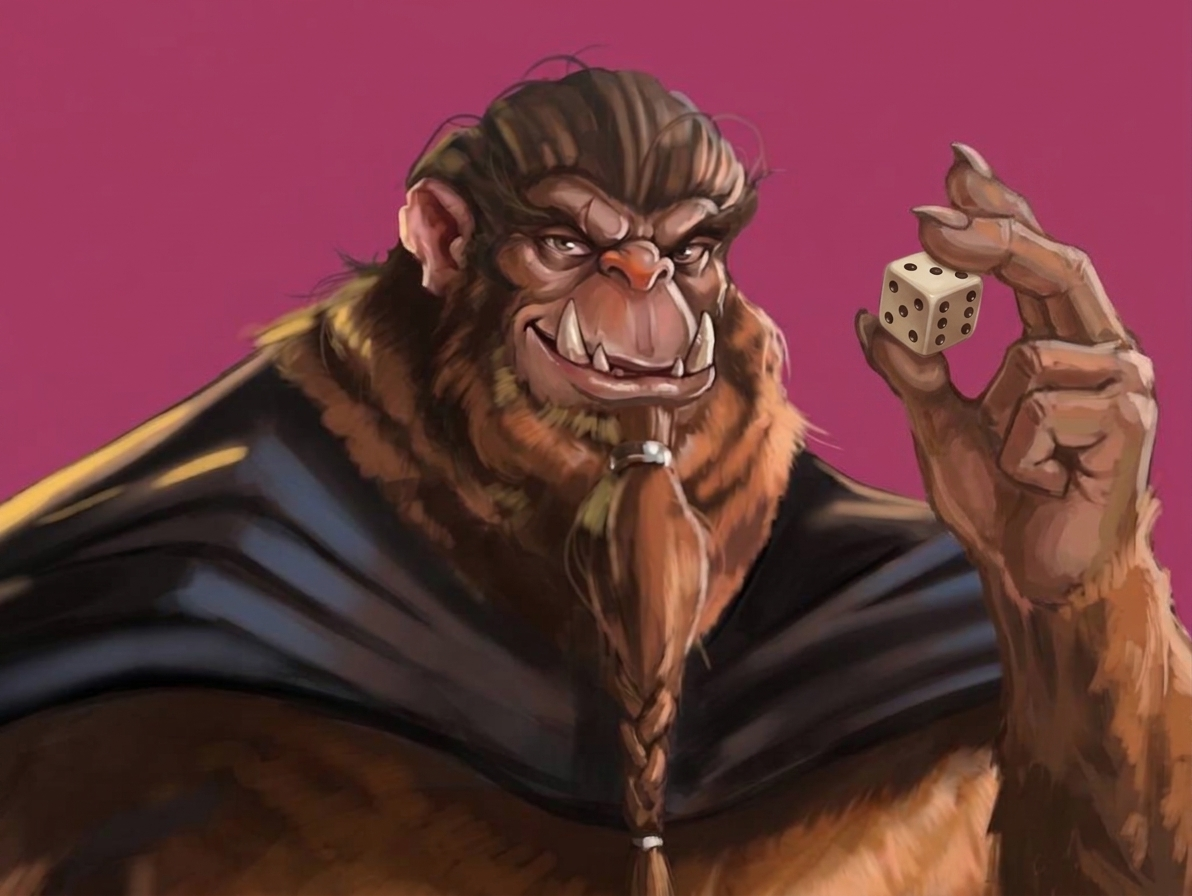
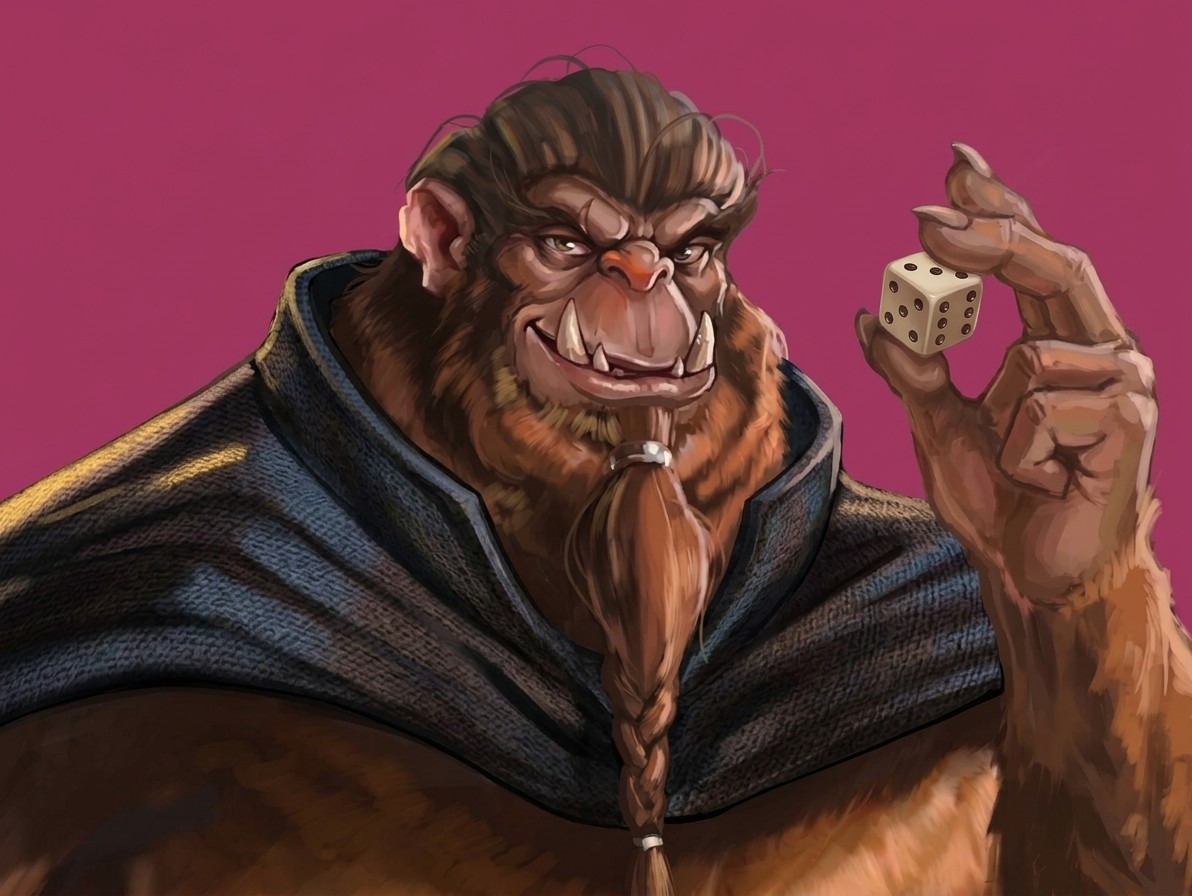
Klarg's third bust: the user's painting with a crisp cloak
Cut at full size with a seed between the die and his fingers, his face
framed for the round portrait; the second painting is kept as
art/bust-klarg-v2.jpg.

diff --git a/client/src/portraits.ts b/client/src/portraits.ts
@@ -55,7 +55,7 @@ export const PORTRAITS: Record<string, Portrait> = {
     'Martha as Danhausen': { ...seated('martha-danhausen.webp', [58, 33], 1, 729, 720, [-19.1, -9.5]), seat: 1.15 },
     'Martha as Duke Morrigan': { ...seated('martha-duke.webp', [57, 33], 0.9, 718, 720, [4.5, -11.3]), seat: 1.15 },
     // (His second painting, 13 Nov, the user's: the round portrait and the seat to be framed again in the tuning panel.)
-    Klarg: seated('klarg.webp', [46.9, 22], 1.18, 1074, 829), // (14 Nov: re-cut at full size, his soft shoulder trimmed; same face, same framing)
+    Klarg: seated('klarg.webp', [53.6, 24], 1.3, 1189, 830), // (14 Nov: his third painting, the user's)
     Rokr: seated('rokr.webp', [46, 28], 1.75, 952, 720, [-1.3, -7.7]),
     // Áéd, the dragon sorcerer (the user's painting, 11 Nov): framed by the user in the Portraits tab (13 Nov).
     'Áéd': seated('aed.webp', [54, 20], 1.7, 625, 720, [-10.8, -9.8]),

diff --git a/CLAUDE.md b/CLAUDE.md
@@ -130,8 +130,9 @@ run incl. purse, shelf, shop), `turnState {turn, event}` (event `toggle`/`finali
   in textures.ts for the ivory dice, `VIVID` in process-art.mjs for the painted sets (a textured set's painted pips keep their
   shading); the ivory dice's black pips near-black (`DARK`), the ivory a little lighter (`#fcf4e8`), and the lacquer softer
   (clearcoat 0.5, roughness 0.26: it glared across the faces). Before/after: `previews/pips/`. `test/shots.mjs` takes
-  `faces=1,6,1,6,6,1` to pin a throw. Klarg's bust re-cut the same day at full size (829 px tall), his soft-painted
-  shoulder clear for 110 px then fading in (`fade: { left: [start, length] }` in `fadeEdges`); `cutOutFlat` logs its trim.
+  `faces=1,6,1,6,6,1` to pin a throw. Klarg has a third bust the same day, the user's, with a crisp cloak
+  (`art/bust-klarg.jpg`; the soft-shouldered second is `bust-klarg-v2.jpg`), cut at full size (830 px tall) with a `holes`
+  seed between the die and his fingers; `fadeEdges` also takes `[start, length]`, and `cutOutFlat` logs its trim.
 - `Dice.tsx`: dice meshes, slot placement by lock order, sphere hit targets, tap on pointer-down,
   Klarg's steal motion, Rokr's constellations, the Loaded Die's old-gold die (`materials.loaded`).
 - **Opponents' own dice** (3 Nov, the user's paintings; off on 4 Nov, **on again since 5 Nov**, the user's calls, `OPPONENT_DICE_ON` in
